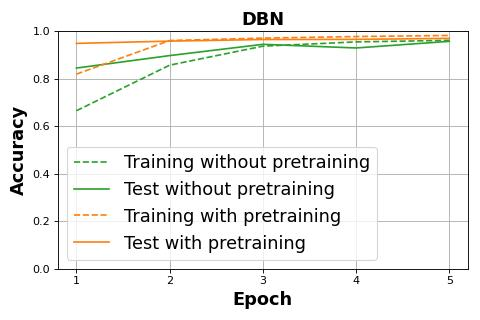
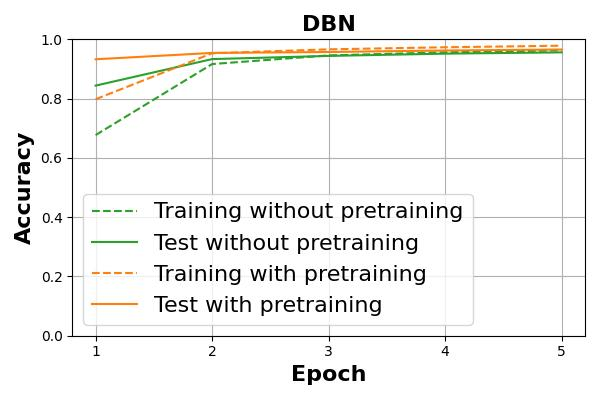
Replaces Table 1 and 2 with Figures.

Changed region(s): [[0.0, 0.0312, 1.0, 0.9688]]

diff --git a/mnist_RBM.py b/mnist_RBM.py
@@ -73,7 +73,7 @@ def train(device, net, epochs, batch_size):
         test_loss /= len(test_loader)
         test_acc /= len(test_loader)
 
-        progress.append([epoch+1, test_loss, train_loss, test_acc, train_acc])
+        progress.append([epoch, test_loss, train_loss, test_acc, train_acc])
 
     return progress
 
@@ -100,18 +100,16 @@ def main(epochs=5, batch_size=64):
         print('epoch %3d/%3d train loss %6.3f' % (epoch, epochs, progress[-1]), end='')
         print(' %4.1fsec' % (timeit.default_timer() - start_time))
 
-    print('Training without pretraining')
-
+    print('Training without pretraining.')
     net = Net()
 
     progress = train(device, net, epochs, batch_size)
 
     progress = pd.DataFrame(np.array(progress))
-    progress.columns = ['epochs', 'test loss', 'train loss', 'test acc', 'train acc']
+    progress.columns = ['epoch', 'test loss', 'train loss', 'test acc', 'train acc']
     progress.to_csv('results/RBM_without_pretraining.csv', index=False)
 
-    print('Training with pretraining')
-
+    print('Training with pretraining.')
     net = Net()
 
     net[0].weight = torch.nn.Parameter(rbm.W)
@@ -120,7 +118,7 @@ def main(epochs=5, batch_size=64):
     progress = train(device, net, epochs, batch_size)
 
     progress = pd.DataFrame(np.array(progress))
-    progress.columns = ['epochs', 'test loss', 'train loss', 'test acc', 'train acc']
+    progress.columns = ['epoch', 'test loss', 'train loss', 'test acc', 'train acc']
     progress.to_csv('results/RBM_with_pretraining.csv', index=False)
 
 if __name__ == '__main__':

diff --git a/mnist_DBN.py b/mnist_DBN.py
@@ -78,7 +78,7 @@ def train(device, net, epochs=5, batch_size=64):
         test_loss /= len(test_loader)
         test_acc /= len(test_loader)
 
-        progress.append([epoch+1, test_loss, train_loss, test_acc, train_acc])
+        progress.append([epoch, test_loss, train_loss, test_acc, train_acc])
 
     return progress
 
@@ -99,14 +99,14 @@ if __name__ == '__main__':
 
     print('Unsupervised pretraining of Deep Belief Network')
     for layer in dbn.train(train_x, epochs=100, batch_size=128):
-        print('Finished Training Layer: %d to %d' % (layer, layer+1))
+        print(f'Finished Training Layer: {layer} to {layer+1}')
 
     print('Training without pretraining.')
     net = Net()
 
     progress = train(device, net)
     progress = pd.DataFrame(np.array(progress))
-    progress.columns = ['epochs', 'test loss', 'train loss', 'test acc', 'train acc']
+    progress.columns = ['epoch', 'test loss', 'train loss', 'test acc', 'train acc']
     progress.to_csv('results/DBN_without_pretraining.csv', index=False)
 
     print('Training with pretraining.')
@@ -114,5 +114,5 @@ if __name__ == '__main__':
     dbn_net = torch.nn.Sequential(dbn.net(), torch.nn.Softmax(dim=1))
     progress = train(device, dbn_net)
     progress = pd.DataFrame(np.array(progress))
-    progress.columns = ['epochs', 'test loss', 'train loss', 'test acc', 'train acc']
+    progress.columns = ['epoch', 'test loss', 'train loss', 'test acc', 'train acc']
     progress.to_csv('results/DBN_with_pretraining.csv', index=False)

diff --git a/draw_graphs.py b/draw_graphs.py
@@ -15,7 +15,7 @@ def plot(filename, model, metrics, condition, split):
     linestyle = '--' if split == 'Training' else '-'
     color = 2 if condition.startswith('without') else 1
 
-    plt.plot(range(1, df.shape[0]+1), df[col], label=f'{split} {condition}',
+    plt.plot(df['epoch'], df[col], label=f'{split} {condition}',
             linestyle=linestyle, color=f'C{color}')
     plt.legend(fontsize=16)
     plt.xticks(range(1, df.shape[0]+1))
@@ -42,4 +42,4 @@ if __name__ == '__main__':
                         model, metrics, condition, split)
        
         plt.tight_layout()
-        plt.savefig(f'images/{model}.jpg', dpi=80)
+        plt.savefig(f'images/{model}.jpg', dpi=100)

diff --git a/README.md b/README.md
@@ -33,24 +33,18 @@ Therefore, it is necessary to align the same number of units in the hidden layer
 This supervised learning after pretraining is called *fine-tuning*.
 We compare and verify the accuracy achieved as a result of each learning process.
 
-The actual progress of the learning accuracy is shown in Table 1. 
+The actual progresses of the accuracies are shown in Table 1. 
 It can be seen that higher accuracies are achieved with pretraining.
 
-| epoch | test w/o PR | train w/o PR | test w/ PR | train w/ PR |
-| ----: | --------: | --------: | --------: | --------: |
-|     1 |    0.668 |    0.672 |    0.935 |    0.939 |
-|     2 |    0.759 |    0.769 |    0.953 |    0.960 |
-|     3 |    0.850 |    0.856 |    0.956 |    0.967 |
-|     4 |    0.917 |    0.927 |    0.960 |    0.972 |
-|     5 |    0.937 |    0.946 |    0.967 |    0.980 |
+![Difference in accuracies of MLP with and without pretraining by RBM](figure/RBM.png)
 
-**Table 1. Difference in accuracy of MLP with and without pretraining by RBM.**
+**Figure 1. Difference in accuracy of MLP with and without pretraining by RBM.**
 
-Figure 1. shows the image of handwritten digits reconstructed with pretrained RBM.
+Figure 2. shows the image of handwritten digits reconstructed with pretrained RBM.
 
 ![Reconstructed digits image with pretrained RBM.](images/RBM_digits.jpg)
 
-**Figure 1. Reconstructed handwritten digits image with pretrained RBM.**
+**Figure 2. Reconstructed handwritten digits image with pretrained RBM.**
 
 ## Deep Belief Network
 
@@ -65,23 +59,18 @@ A neural network with this configuration is called a DBN.
 
 DBN is a *generative model* because they are derived from RBMs, and it is also a *graphical model* in which input variables are represented by the combination of latent variables.
 
-The process of accuracy achieved by actually training with the DBN is shown in Table 2. Again, higher accuracy is achieved with pretraining.
+The transitions of accuracies achieved by actually training with DBN is shown in Figure 3.
+Again, higher accuracy is achieved with pretraining.
 
-| epoch | test w/o PR | train w/o PR | test w/ PR | train w/ PR |
-| ----: | -------: | -------: | -------: | -------: |
-|     1 |    0.741 |    0.745 |    0.929 |    0.931 |
-|     2 |    0.832 |    0.837 |    0.950 |    0.958 |
-|     3 |    0.853 |    0.860 |    0.957 |    0.969 |
-|     4 |    0.927 |    0.934 |    0.962 |    0.976 |
-|     5 |    0.940 |    0.949 |    0.965 |    0.979 |
+![Difference in accuracies of DBN with and without pretraining](figure/DBN.png)
 
-**Table 2. Difference in training accuracy of DBN with and without pretraining for each RBM.**
+**Figure 2. Difference in accuracies of DBN with and without pretraining.**
 
-The image of handwritten digits input reconstructed with pretrained DBN is shown in Figure 2.
+The image of handwritten digits input reconstructed with pretrained DBN is shown in Figure 4.
 
 ![Reconstructed handwritten digits images with pretrained DBN.](images/DBN_digits.jpg)
 
-**Figure 2. Reconstructed handwritten digits images with pretrained DBN.**
+**Figure 4. Reconstructed handwritten digits images with pretrained DBN.**
 
 ## Applications
 
